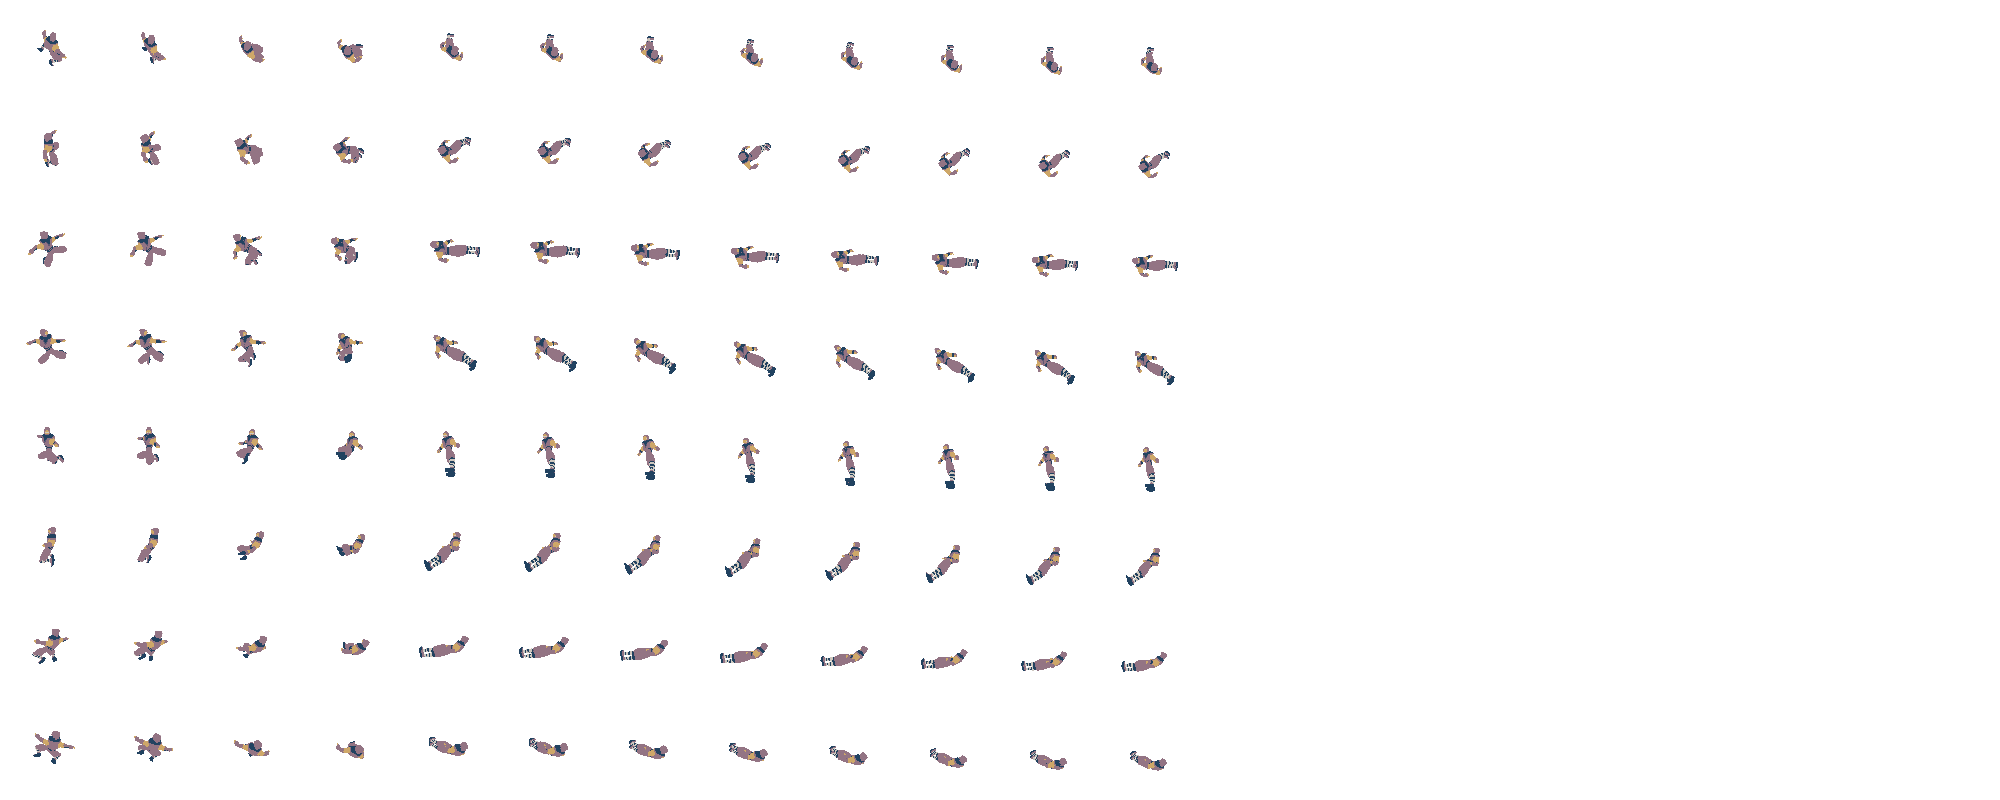
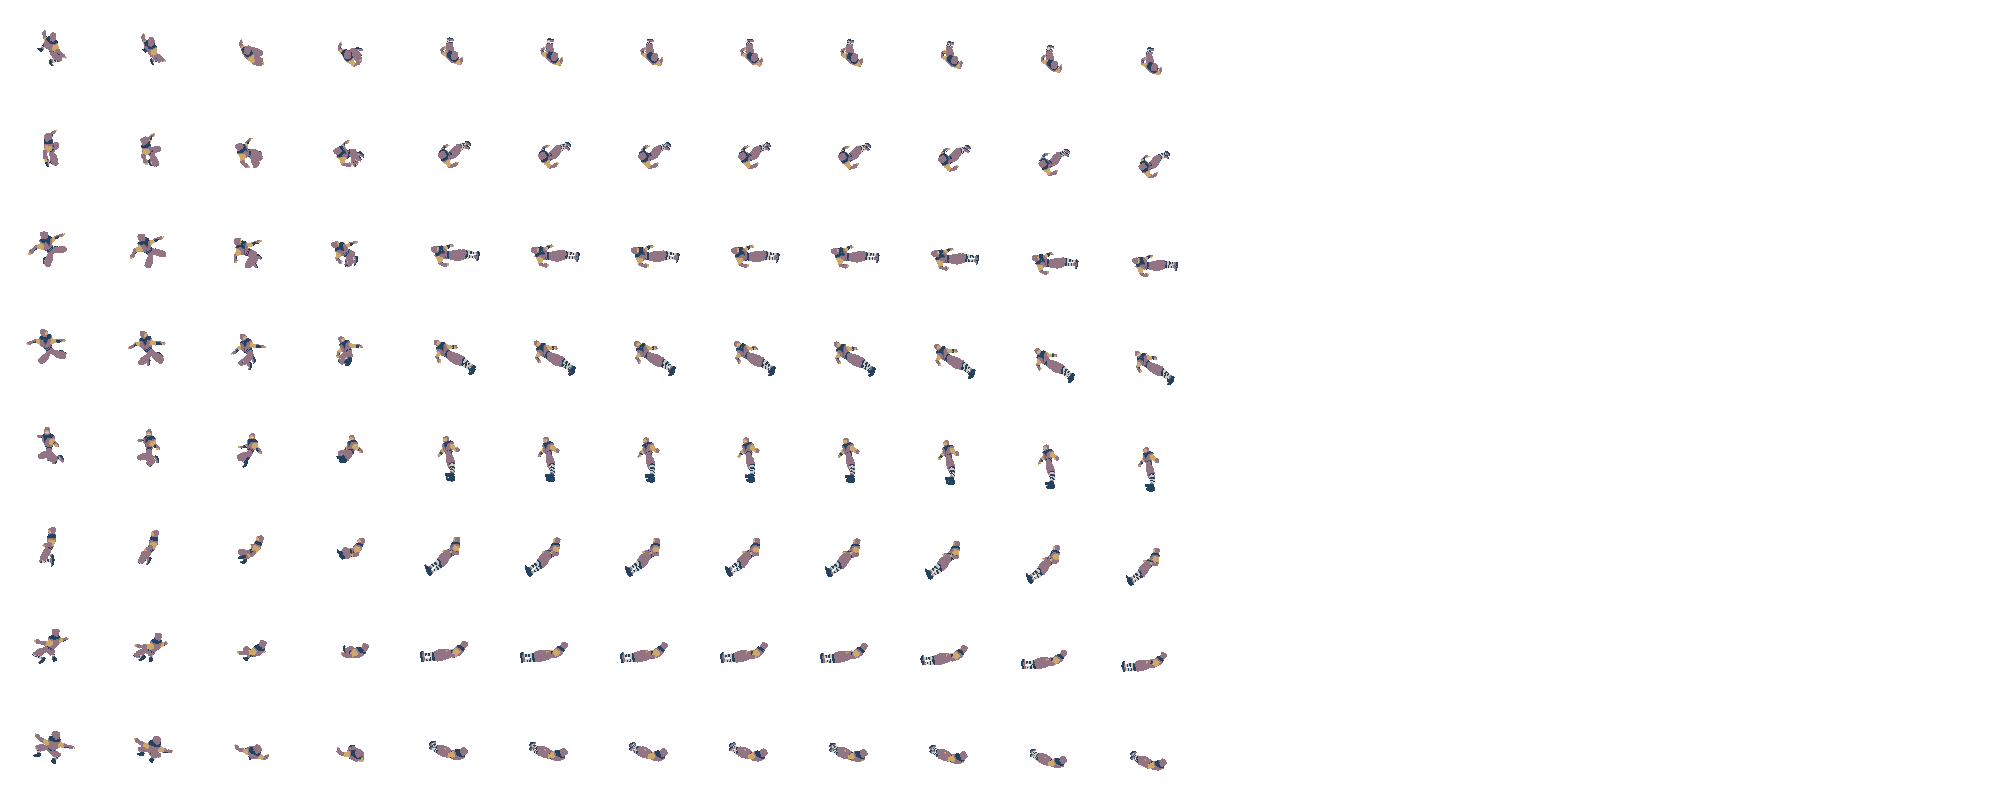
feat: Add flying knee attack (without hitbox)

diff --git a/src/player/state/state_machine.rs b/src/player/state/state_machine.rs
@@ -24,7 +24,8 @@ impl PlayerStateMachine {
     pub fn can_run(&self) -> bool {
         self.state == DudeState::Idling
             || self.state == DudeState::Running
-            || (self.state == DudeState::Recovering && self.attack() != Attack::Dropkick)
+            || (self.state == DudeState::Recovering
+                && (self.attack() != Attack::Dropkick && self.attack() != Attack::Kneekick))
             || self.state == DudeState::Parrying(ParryState::Success)
             || self.state == DudeState::Parrying(ParryState::Recover)
             || self.state == DudeState::Staggering && self.stagger.state().is_recovering()
@@ -34,7 +35,8 @@ impl PlayerStateMachine {
         self.can_run()
             || (self.state == DudeState::Attacking
                 && self.attack() != Attack::Slide
-                && self.attack() != Attack::Dropkick)
+                && self.attack() != Attack::Dropkick
+                && self.attack() != Attack::Kneekick)
     }
 
     pub fn previous_state(&self) -> DudeState {
@@ -197,11 +199,15 @@ Attempted new state: {:?}",
             Attack::Heavy3 => None,
             Attack::Slide => None,
             Attack::Dropkick => None,
+            Attack::Kneekick => None,
         }
     }
 
     pub fn transition_chain_attack(&mut self, move_direction: Vec2) {
-        let terminal_state = if move_direction == Vec2::ZERO || self.attack() == Attack::Dropkick {
+        let terminal_state = if move_direction == Vec2::ZERO
+            || self.attack() == Attack::Dropkick
+            || self.attack() == Attack::Kneekick
+        {
             DudeState::Recovering
         } else {
             DudeState::Running
@@ -271,6 +277,10 @@ Attempted new state: {:?}",
 
     pub fn tick_jumping_timer(&mut self, delta: Duration) {
         self.jumping.tick_timer(delta);
+    }
+
+    pub fn jumping_timer_finished(&self) -> bool {
+        self.jumping.finished()
     }
 
     pub fn jumping_duration(&self) -> f32 {

diff --git a/src/player/state/mod.rs b/src/player/state/mod.rs
@@ -154,7 +154,7 @@ fn transition_attacking_state(player_input: Res<PlayerInput>, mut q_players: Que
         if player.state_machine.state() == DudeState::Jumping(JumpingState::Start) {
             match attack_form {
                 AttackForm::None => {}
-                AttackForm::Light => todo!(),
+                AttackForm::Light => player.state_machine.set_attack(Attack::Kneekick),
                 AttackForm::Heavy => player.state_machine.set_attack(Attack::Dropkick),
             };
         } else {
@@ -195,14 +195,23 @@ fn transition_idle_state(
 
         match player.state_machine.state() {
             DudeState::Idling | DudeState::Running => {}
-            DudeState::Attacking => {
-                if !animator.just_finished() {
-                    continue;
+            DudeState::Attacking => match player.state_machine.attack() {
+                Attack::Kneekick | Attack::Dropkick => {
+                    if player.state_machine.jumping_timer_finished() {
+                        player
+                            .state_machine
+                            .transition_chain_attack(player_input.move_direction);
+                    }
                 }
-                player
-                    .state_machine
-                    .transition_chain_attack(player_input.move_direction);
-            }
+                _ => {
+                    if !animator.just_finished() {
+                        continue;
+                    }
+                    player
+                        .state_machine
+                        .transition_chain_attack(player_input.move_direction);
+                }
+            },
             DudeState::Recovering => {
                 if animator.just_finished() {
                     player.state_machine.set_state(DudeState::Idling);

diff --git a/src/assets/mod.rs b/src/assets/mod.rs
@@ -78,6 +78,8 @@ pub struct GameAssets {
             "dude/dude_fall_recover.png",
             "dude/dude_dropkick.png",
             "dude/dude_dropkick_recover.png",
+            "dude/dude_kneekick.png",
+            "dude/dude_kneekick_recover.png",
         ),
         collection(typed)
     )]
@@ -337,6 +339,22 @@ pub struct GameAssets {
             "dude/dude.trickfilm.ron#dropkick_recover-o5",
             "dude/dude.trickfilm.ron#dropkick_recover-o6",
             "dude/dude.trickfilm.ron#dropkick_recover-o7",
+            "dude/dude.trickfilm.ron#kneekick-o0",
+            "dude/dude.trickfilm.ron#kneekick-o1",
+            "dude/dude.trickfilm.ron#kneekick-o2",
+            "dude/dude.trickfilm.ron#kneekick-o3",
+            "dude/dude.trickfilm.ron#kneekick-o4",
+            "dude/dude.trickfilm.ron#kneekick-o5",
+            "dude/dude.trickfilm.ron#kneekick-o6",
+            "dude/dude.trickfilm.ron#kneekick-o7",
+            "dude/dude.trickfilm.ron#kneekick_recover-o0",
+            "dude/dude.trickfilm.ron#kneekick_recover-o1",
+            "dude/dude.trickfilm.ron#kneekick_recover-o2",
+            "dude/dude.trickfilm.ron#kneekick_recover-o3",
+            "dude/dude.trickfilm.ron#kneekick_recover-o4",
+            "dude/dude.trickfilm.ron#kneekick_recover-o5",
+            "dude/dude.trickfilm.ron#kneekick_recover-o6",
+            "dude/dude.trickfilm.ron#kneekick_recover-o7",
         ),
         collection(typed)
     )]

diff --git a/src/dude/animations.rs b/src/dude/animations.rs
@@ -41,6 +41,8 @@ pub enum DudeAnimations {
     FallRecover,
     Dropkick,
     DropkickRecover,
+    Kneekick,
+    KneekickRecover,
 }
 
 impl DudeAnimations {
@@ -126,6 +128,7 @@ pub fn dude_state_animation(
                 Attack::Heavy3 => DudeAnimations::Heavy3,
                 Attack::Slide => DudeAnimations::Slide,
                 Attack::Dropkick => DudeAnimations::Dropkick,
+                Attack::Kneekick => DudeAnimations::Kneekick,
             };
             get_animation_data(assets, dude_animation, direction, false)
         }
@@ -139,6 +142,7 @@ pub fn dude_state_animation(
                 Attack::Heavy3 => DudeAnimations::Heavy3Recover,
                 Attack::Slide => DudeAnimations::SlideRecover,
                 Attack::Dropkick => DudeAnimations::DropkickRecover,
+                Attack::Kneekick => DudeAnimations::KneekickRecover,
             };
             get_animation_data(assets, dude_animation, direction, false)
         }

diff --git a/src/dude/attack.rs b/src/dude/attack.rs
@@ -15,6 +15,7 @@ pub enum Attack {
     Heavy3,
     Slide,
     Dropkick,
+    Kneekick,
 }
 
 #[derive(Debug, Default, PartialEq, Clone, Copy)]
@@ -77,6 +78,7 @@ impl Attack {
                 Vec2::new(0.0, -16.0),
             ),
             Attack::Dropkick => todo!(),
+            Attack::Kneekick => todo!(),
         }
     }
 
@@ -137,6 +139,13 @@ impl Attack {
             ),
             // TODO: Dropkick effect animations
             Attack::Dropkick => (
+                assets.attack_arc.clone(),
+                assets.attack_arc_layout.clone(),
+                assets.attack_arc_animation.clone(),
+                true,
+            ),
+            // TODO: kneekick effect animations
+            Attack::Kneekick => (
                 assets.attack_arc.clone(),
                 assets.attack_arc_layout.clone(),
                 assets.attack_arc_animation.clone(),

diff --git a/src/player/state/jumping.rs b/src/player/state/jumping.rs
@@ -58,12 +58,20 @@ impl Jumping {
     pub fn reset_timer(&mut self) {
         self.elapsed = 0.0;
     }
+
+    pub fn finished(&self) -> bool {
+        if self.duration == 0.0 {
+            return false;
+        }
+        self.elapsed >= self.duration
+    }
 }
 
 fn tick_timers(time: Res<Time>, mut q_players: Query<&mut Player>) {
     for mut player in &mut q_players {
         if player.state_machine.state() == DudeState::Jumping(JumpingState::Start)
             || player.state_machine.attack_eq(Attack::Dropkick)
+            || player.state_machine.attack_eq(Attack::Kneekick)
         {
             player.state_machine.tick_jumping_timer(time.delta());
         } else {

diff --git a/src/player/movement.rs b/src/player/movement.rs
@@ -44,7 +44,9 @@ fn move_player_attacking(mut q_players: Query<(&AnimationPlayer2D, &mut Velocity
             let x = animator.elapsed() / duration + 0.1;
             let multiplier = (1.0 - x.powi(2)).max(0.0);
             velocity.linvel = player.state_machine.attack_direction() * 400.0 * multiplier;
-        } else if player.state_machine.attack_eq(Attack::Dropkick) {
+        } else if player.state_machine.attack_eq(Attack::Dropkick)
+            || player.state_machine.attack_eq(Attack::Kneekick)
+        {
             velocity.linvel = player
                 .state_machine
                 .jumping_linvel(player.state_machine.attack_direction());

diff --git a/src/player/animation.rs b/src/player/animation.rs
@@ -60,6 +60,7 @@ fn animate_sprite_jumping(mut q_players: Query<(&mut Sprite, &Player)>) {
     for (mut sprite, player) in &mut q_players {
         if player.state_machine.state() == DudeState::Jumping(JumpingState::Start)
             || player.state_machine.attack_eq(Attack::Dropkick)
+            || player.state_machine.attack_eq(Attack::Kneekick)
         {
             let offset = player.state_machine.sprite_y_offset();
             sprite.anchor = Anchor::Custom(Vec2::new(0.0, -offset));

diff --git a/src/dude/stagger.rs b/src/dude/stagger.rs
@@ -125,6 +125,14 @@ impl Stagger {
                     1000.0 * intensity_multiplier,
                 );
             }
+            Attack::Kneekick => {
+                self.new_state(
+                    StaggerState::Fall,
+                    direction,
+                    0.3 * duration_multiplier,
+                    0.0 * intensity_multiplier,
+                );
+            }
         }
     }
 
